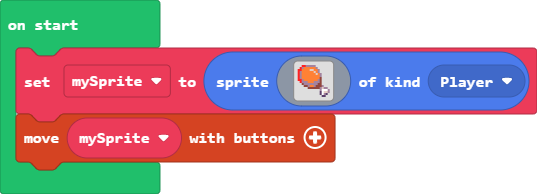
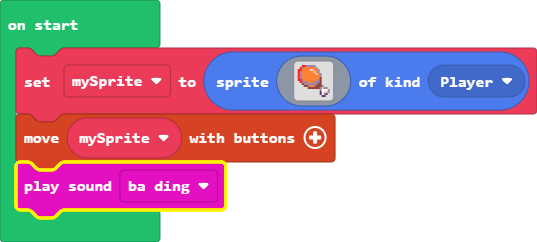
BADING

diff --git a/main.ts b/main.ts
@@ -17,3 +17,4 @@ let mySprite = sprites.create(img`
     . . . . . . . . . . . . c c . . 
     `, SpriteKind.Player)
 controller.moveSprite(mySprite)
+music.baDing.play()
